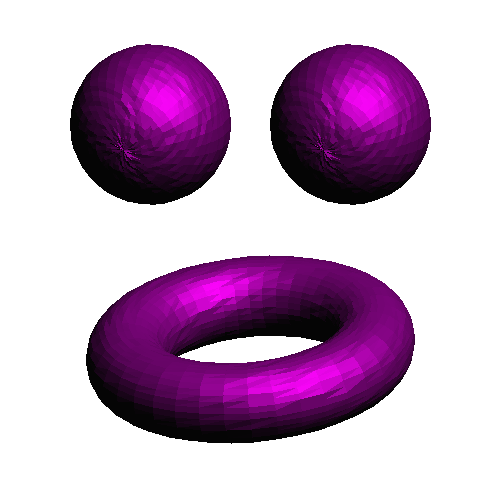
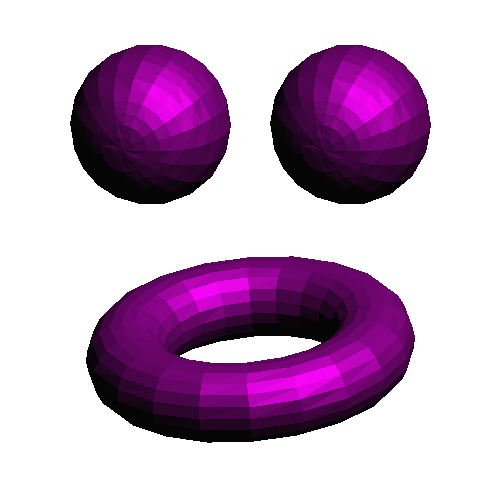
done i think

diff --git a/Matrix.java b/Matrix.java
@@ -100,8 +100,8 @@ public class Matrix {
 
     public static Matrix generateSphere(double cx, double cy, double cz, double r){
         Matrix points = new Matrix(4, 4);
-        for (double phi = 0; phi < 1; phi += 0.025){
-            for (double theta = 0; theta < 1.01; theta += 0.025){
+        for (double phi = 0; phi < 1; phi += 0.05){
+            for (double theta = 0; theta < 1.01; theta += 0.05){
                 double x = r * Math.cos(Math.PI * theta) + cx;
                 double y = r * Math.sin(Math.PI * theta) * Math.cos(phi * 2 * Math.PI) + cy;
                 double z = r * Math.sin(Math.PI * theta) * Math.sin(phi * 2 * Math.PI) + cz;
@@ -113,8 +113,8 @@ public class Matrix {
 
     public static Matrix generateTorus(double cx, double cy, double cz, double r1, double r2){
         Matrix points = new Matrix(4, 4);
-        for (double phi = 0; phi < 1; phi += 0.025){
-            for (double theta = 0; theta < 1; theta += 0.025){
+        for (double phi = 0; phi < 1; phi += 0.05){
+            for (double theta = 0; theta < 1; theta += 0.05){
                 double x = Math.cos(2 * Math.PI * phi) * (r1 * Math.cos(2 * Math.PI * theta) + r2) + cx;
                 double y = r1 * Math.sin(2 * Math.PI * theta) + cy;
                 double z = -1 * Math.sin(2 * Math.PI * phi) * (r1 * Math.cos(2 * Math.PI * theta) + r2) + cz;

diff --git a/PolygonMatrix.java b/PolygonMatrix.java
@@ -12,7 +12,7 @@ public class PolygonMatrix extends Matrix {
 
     public void addSphere(Matrix points){
         System.out.println(points.getCols());
-        int step = 40;
+        int step = 20;
         int lat_start = 0;
         int lat_stop = step;
         int longt_start = 0;
@@ -36,7 +36,7 @@ public class PolygonMatrix extends Matrix {
 
     public void addTorus(Matrix points){
         //System.out.println(points.getCols());
-        int step = 40;
+        int step = 20;
         int lat_start = 0;
         int lat_stop = step;
         int longt_start = 0;

diff --git a/Drawing.java b/Drawing.java
@@ -250,9 +250,6 @@ public class Drawing {
             if (c > 255){
                 c = 255;
             }
-            if (c < 0){
-                c = 0;
-            }
             returned[i] = c;
         }
         return returned;
